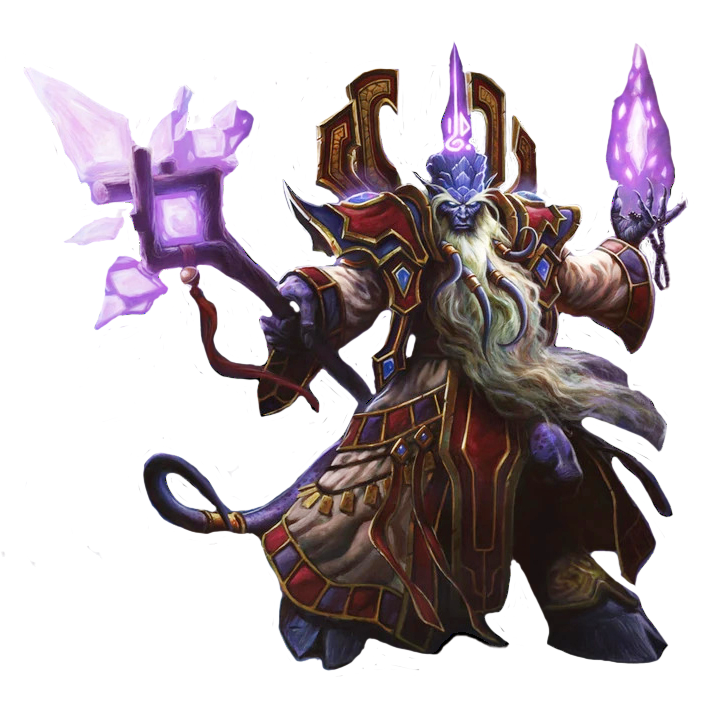
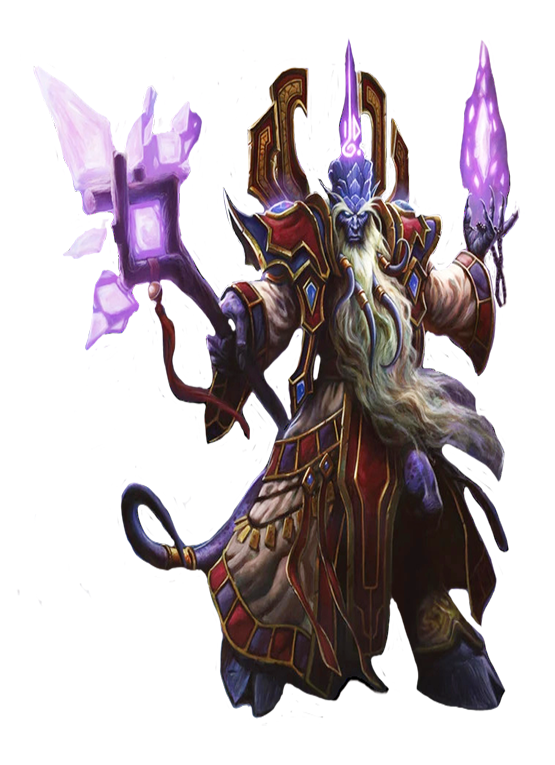
Рефакторинг рейдовой брони
список общий добавил поле object-fit и отредактировал вара друля и жреца фото фин вариант

Changed region(s): [[0.0613, 0.0616, 0.9802, 0.9552], [0.3982, 0.8936, 0.4595, 0.9244], [0.4595, 0.9244, 0.4901, 0.9552]]

diff --git a/src/components/Card.tsx b/src/components/Card.tsx
@@ -1,7 +1,7 @@
 import { Link } from "react-router";
 
 
-const Card = ({type, path, cardImg, description, title, spanClassname, price, gold, raids }) => {
+const Card = ({type, path, cardImg, objectFit, description, title, spanClassname, price, gold, raids }) => {
 	return (
 		<div className={`card ${
 			type == "warrior"
@@ -49,6 +49,9 @@ const Card = ({type, path, cardImg, description, title, spanClassname, price, go
 			type == "legendary-weapons"
 				? "card-weapons-legendary"
 				:
+			type == "fly-mounts"
+				? "card-mounts-fly"
+				:
 			type == "dungeons"
 				? "card-mythic"
 				: null
@@ -56,7 +59,13 @@ const Card = ({type, path, cardImg, description, title, spanClassname, price, go
 		}>
 
 			<Link to={path}>
-				<img src={cardImg} className="card-img"  alt={title} />
+				<img src={cardImg} className={`card-img ${
+					objectFit
+						? "card-img-object-fit"
+						: null
+					}`
+				}
+				alt={title} />
 			</Link>
 
 			<div className="card-body">
@@ -103,6 +112,9 @@ const Card = ({type, path, cardImg, description, title, spanClassname, price, go
 							:
 						type == "legendary-weapons"
 							? "card-title-weapons-legendary"
+							:
+						type == "fly-mounts"
+							? "card-title-mounts-fly"
 							:
 						type == "dungeons"
 							? "card-title-mythic"
@@ -156,6 +168,9 @@ const Card = ({type, path, cardImg, description, title, spanClassname, price, go
 					type == "legendary-weapons"
 						? "card-text-weapons-legendary"
 						:
+					type == "fly-mounts"
+						? "card-text-mounts-fly"
+						:
 					type == "dungeons"
 						? "card-text-mythic"
 						: null
@@ -208,6 +223,9 @@ const Card = ({type, path, cardImg, description, title, spanClassname, price, go
 						:
 					type == "legendary-weapons"
 						? "card-price-weapons-legendary"
+						:
+					type == "fly-mounts"
+						? "card-price-mounts-fly"
 						:
 					type == "dungeons"
 						? "card-price-mythic"

diff --git a/src/style.css b/src/style.css
@@ -816,10 +816,6 @@ footer {
   transform: scale(1.05);
   box-shadow: 0 0 2px 5px #673ab7;
 }
-.card-object-fit img {
-  -o-object-fit: contain;
-     object-fit: contain;
-}
 .card-warrior {
   background: linear-gradient(325deg, #854c27, transparent 30%, transparent 35%, #854c27, transparent);
 }
@@ -1096,6 +1092,10 @@ footer {
 .card-img:hover {
   transition: 0.5s all;
   transform: scale(1.05);
+}
+.card-img-object-fit {
+  -o-object-fit: contain;
+     object-fit: contain;
 }
 .card-img-tiers {
   border-radius: 0.8rem;

diff --git a/src/sass/global/_cards.sass b/src/sass/global/_cards.sass
@@ -11,9 +11,6 @@
 		transition: 0.5s all
 		transform: scale(1.05)
 		box-shadow: 0 0 2px 5px $defaultCardHoverShadow
-	&-object-fit
-		img
-			object-fit: contain
 	&-warrior
 		background: $warriorBg
 		&:hover
@@ -192,6 +189,7 @@
 .card-box
 	column-gap: 1.4rem
 	row-gap: 2rem
+
 .card-img
 	width: 100%
 	height: 450px
@@ -200,6 +198,8 @@
 	&:hover
 		transition: 0.5s all
 		transform: scale(1.05)
+	&-object-fit
+		object-fit: contain
 	&-tiers
 		border-radius: 0.8rem
 	&-mythic, &-lvl-up, &-achievements

diff --git a/src/components/Cards.tsx b/src/components/Cards.tsx
@@ -101,6 +101,7 @@ const Cards = ({home, raidsArmoursWarrior, raidsArmoursDruid, raidsArmoursPriest
 				type={card.type}
 				path={card.path}
 				cardImg={card.cardImg}
+				objectFit={card.objectFit}
 				spanClassname={card.spanClassname}
 				description={card.description}
 				title={card.title}
